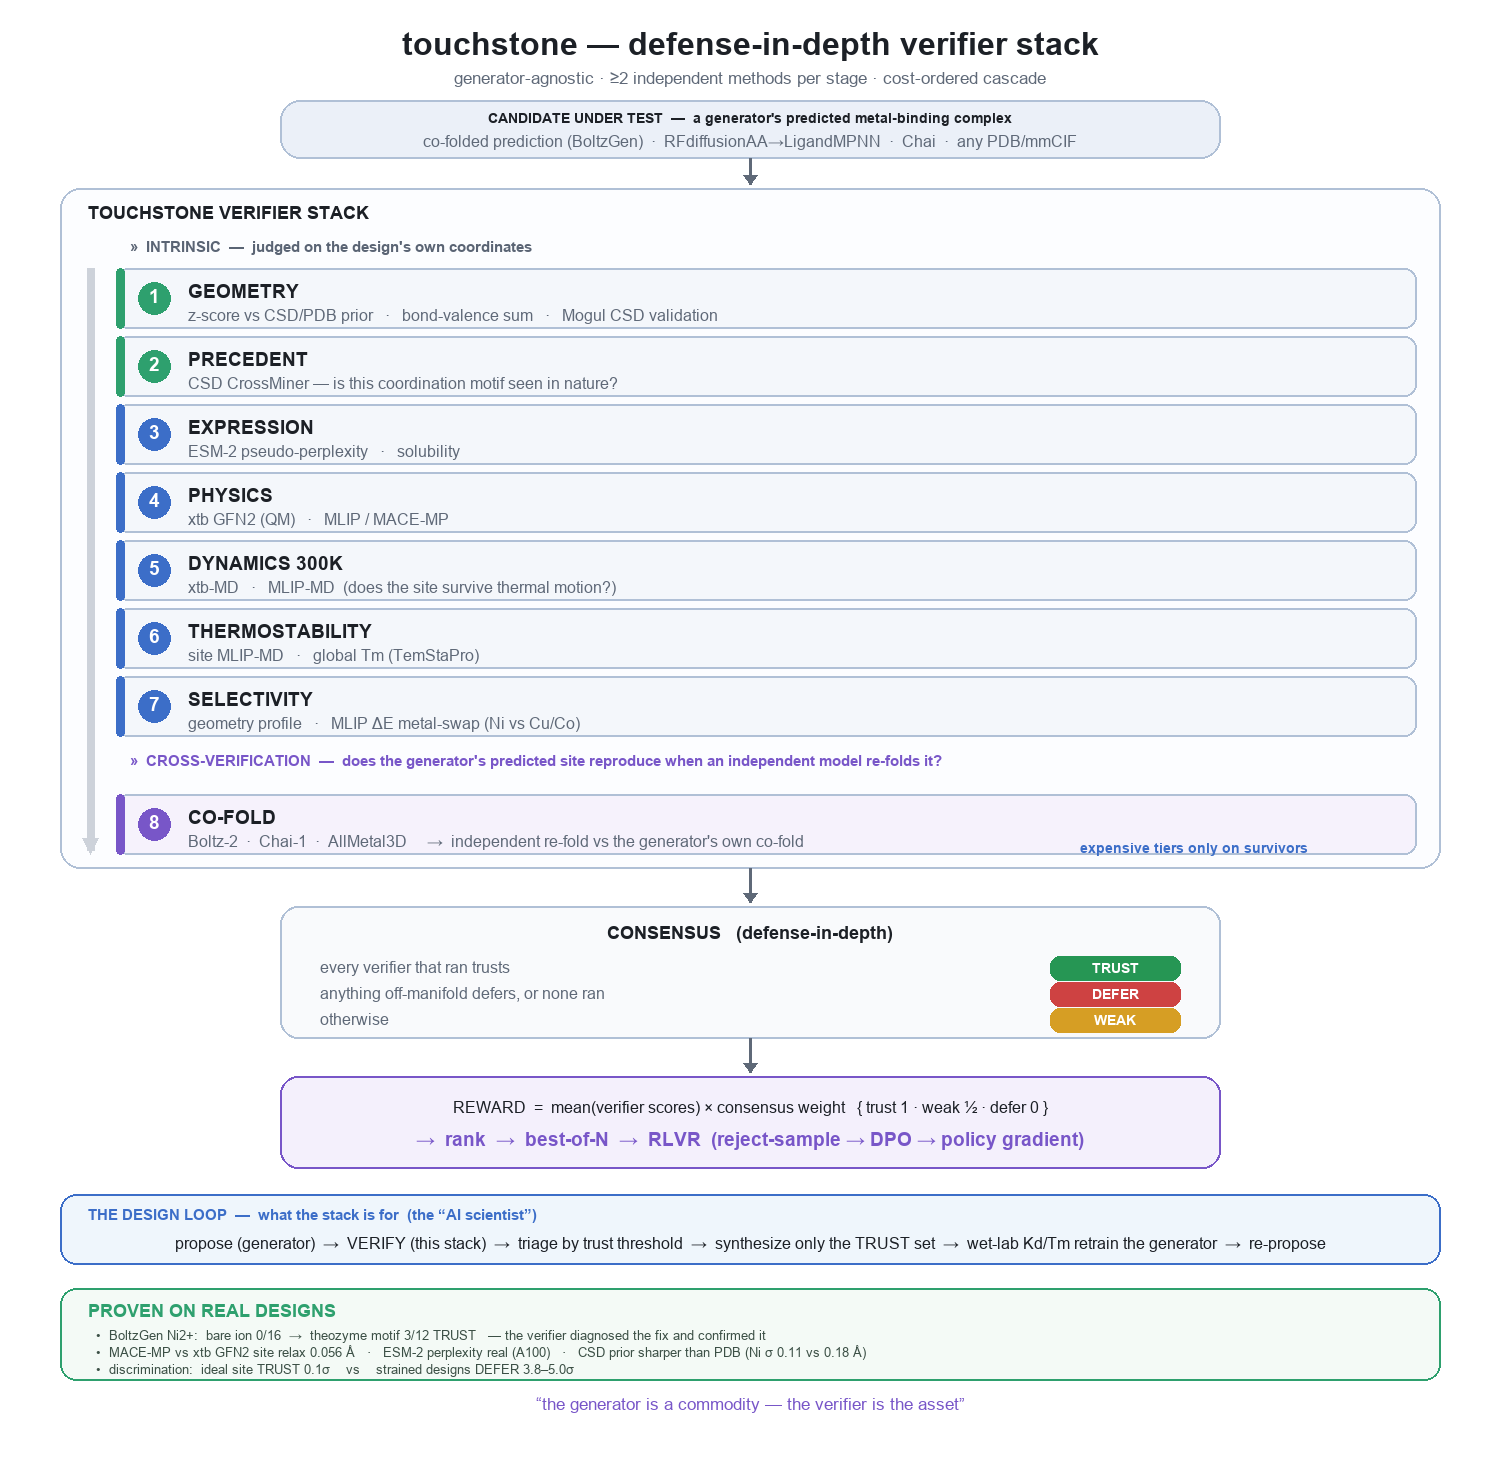
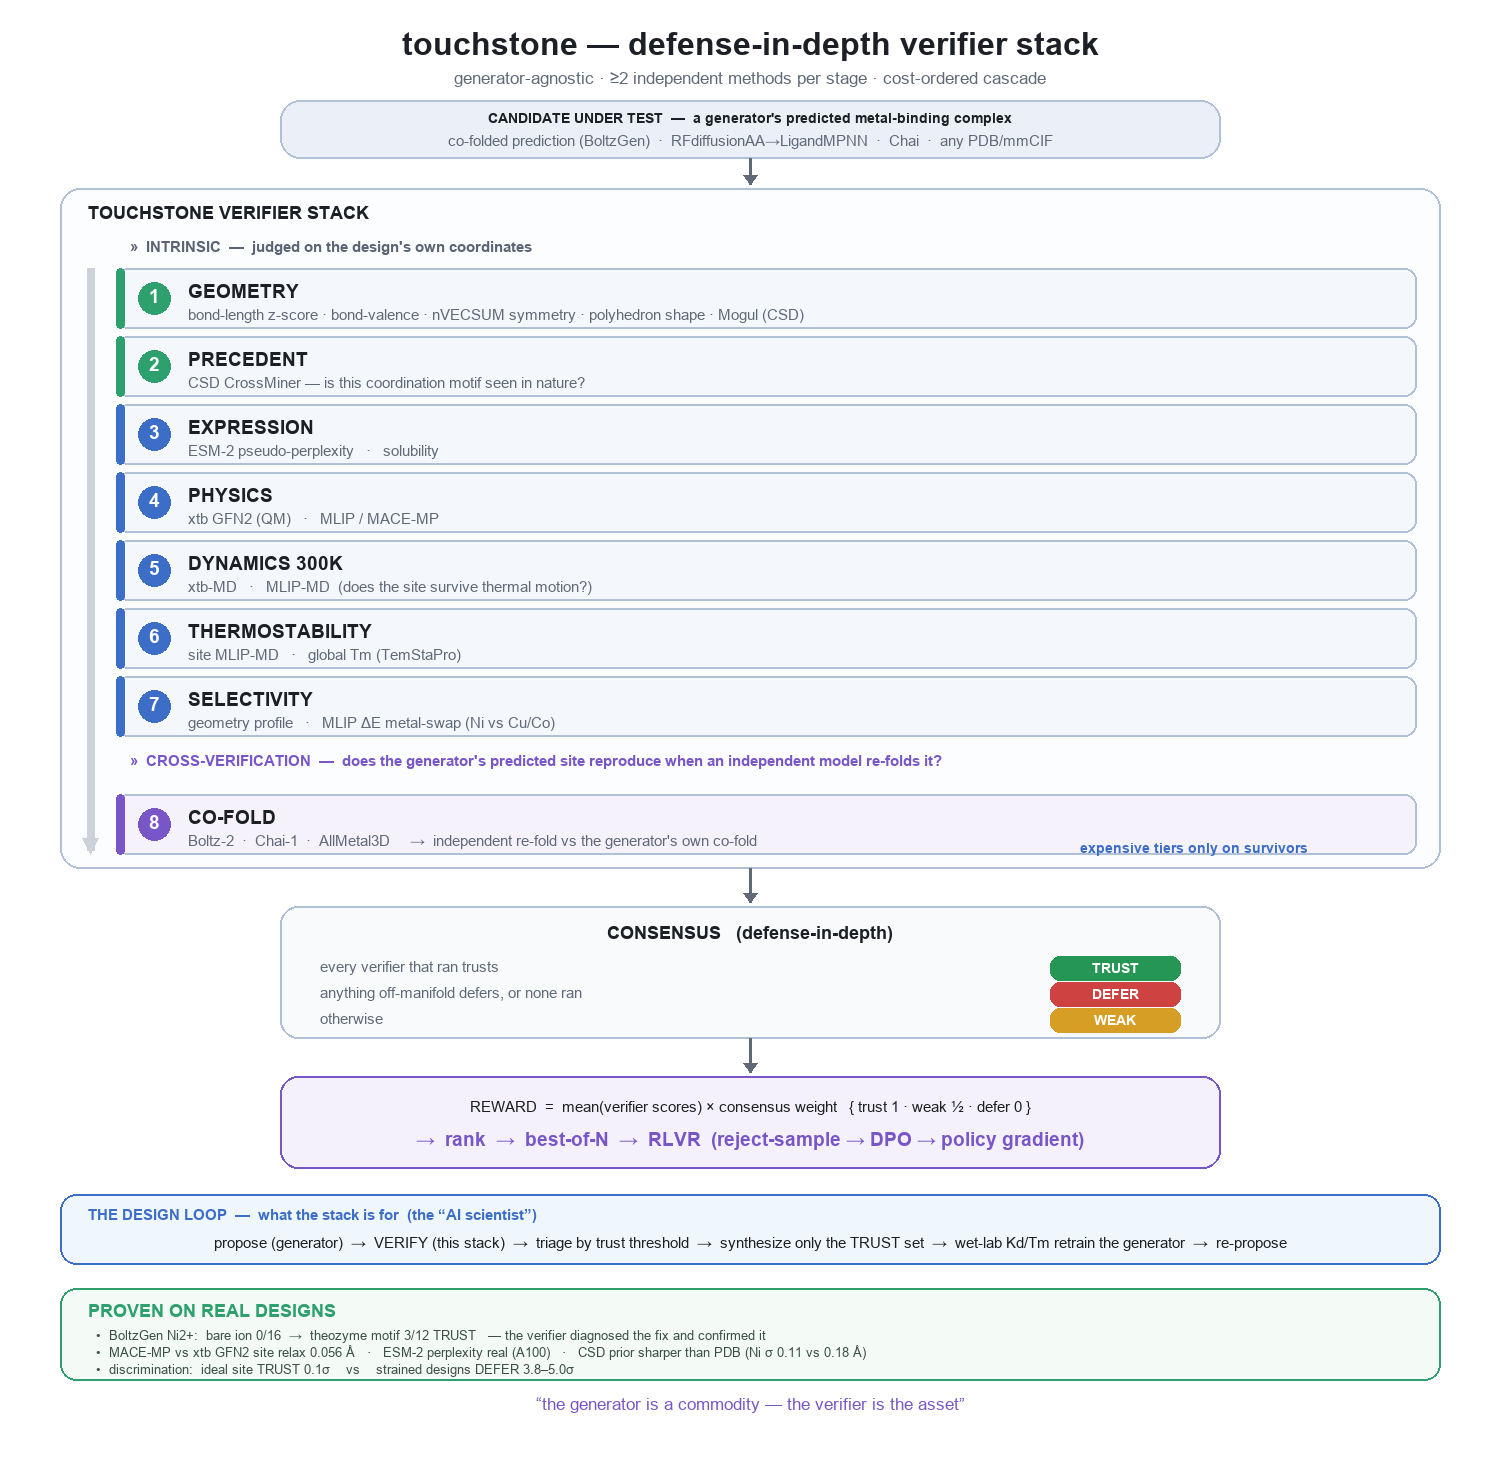
docs(touchstone): regenerate diagram to show nVECSUM + polyhedron-shape tiers
Geometry row now lists all four CPU checks (bond-length z-score · bond-valence · nVECSUM
symmetry · polyhedron shape · Mogul), matching v0.0.3; caption updated to drop the caveat.

diff --git a/TOUCHSTONE.md b/TOUCHSTONE.md
@@ -14,7 +14,7 @@ repo on first use (requires `uv` on PATH). No install or vendoring.
 
 ![touchstone verifier stack](touchstone-verifier-stack.png)
 
-*Conceptual architecture (the geometry tier also includes the nVECSUM symmetry + polyhedron-shape checks listed below).*
+*Candidate → intrinsic checks (geometry: z-score · bond-valence · nVECSUM · polyhedron shape · Mogul; + precedent / expression / physics / dynamics / thermostability / selectivity) → cross-verification (independent co-fold) → consensus → reward / design loop.*
 
 Defense-in-depth — independent methods across complementary axes; each design gets a
 trust/weak/defer per tier, rolled into one `consensus` (a single `defer` collapses it):
